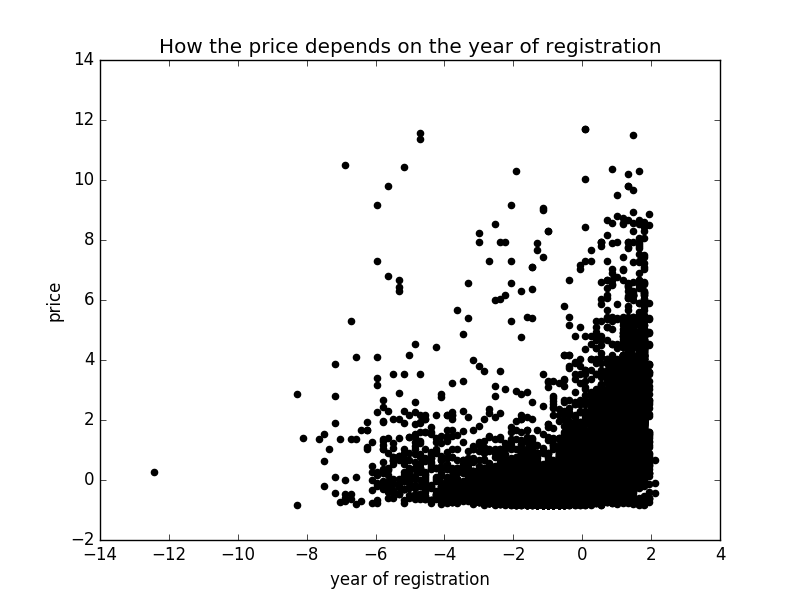
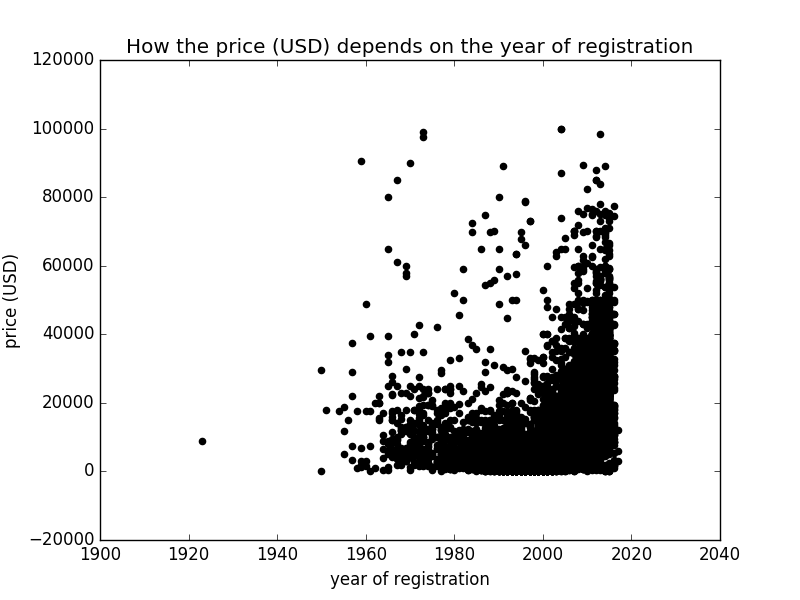
master: fix plot

diff --git a/prediction.py b/prediction.py
@@ -27,7 +27,7 @@ def normalize_data(df):
     return df
 
 
-def plot(x, y, xlabel, ylabel='price'):
+def plot(x, y, xlabel, ylabel='price (USD)'):
     plt.scatter(x, y,  color='black')
     plt.title('How the {} depends on the {}'. format(ylabel, xlabel))
     plt.xlabel(xlabel)
@@ -42,7 +42,7 @@ def main():
 
     # print df[df.columns[1:-1]].apply(lambda x: x.corr(df['price']))
 
-    df = normalize_data(df)
+    # df = normalize_data(df)
 
     x_train, x_test, y_train, y_test = train_test_split(
         df.drop('price', axis=1), df['price'], test_size=0.2, random_state=42)
@@ -55,7 +55,7 @@ def main():
     print r2_score(y_test, y_pred)
 
     plot(x_test.yearOfRegistration, y_test, 'year of registration')
-    plot(x_test.kilometer, y_test, 'kilometer')
+    plot(x_test.kilometer, y_test, 'distance km')
     plot(x_test.powerPS, y_test, 'power PS')
 
 if __name__ == '__main__':
